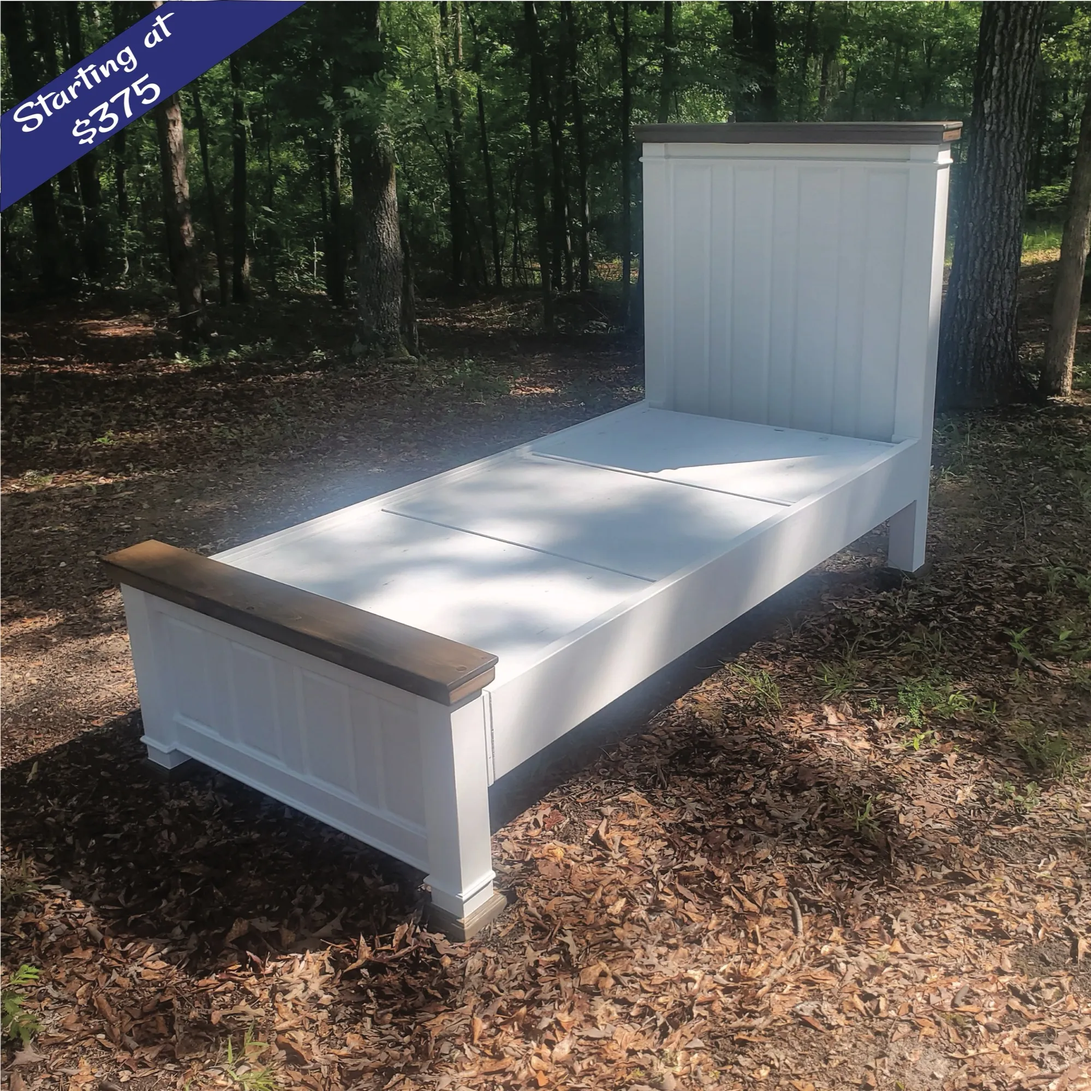
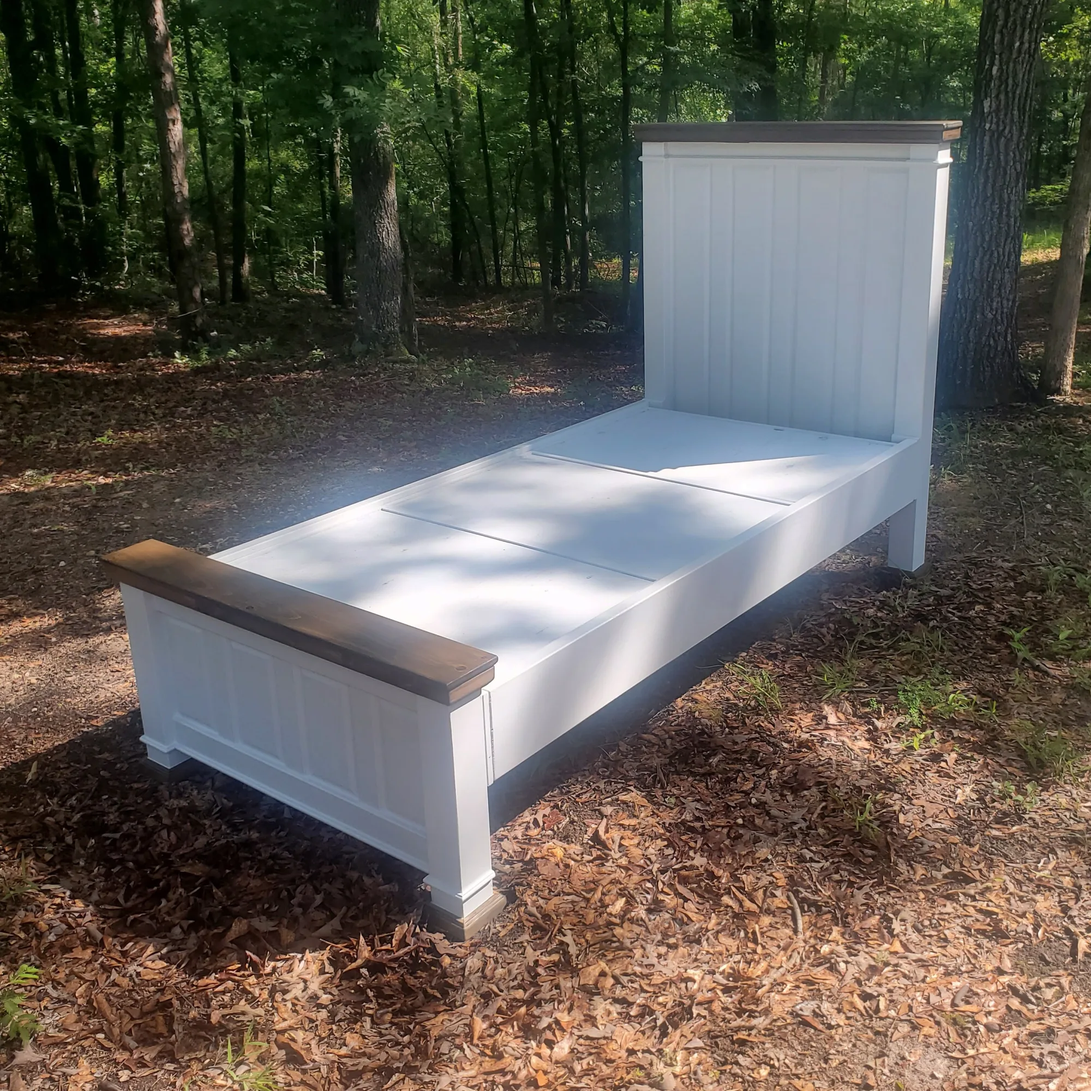
swtiched the Franklin hero and the bed pic, added the full text to Franklin card

diff --git a/index.html b/index.html
@@ -77,14 +77,14 @@
 
       <article class="style-card" data-style="franklin" tabindex="0" role="button" aria-label="View Franklin Collection">
         <div class="style-card__bg">
-          <img class="style-card__img style-card__img--a active" src="images/Franklin/1. 7-Drawer Dresser.webp" alt="">
+          <img class="style-card__img style-card__img--a active" src="images/Franklin/0. 7-Drawer Dresser-no-price.webp" alt="">
           <img class="style-card__img style-card__img--b" src="images/Franklin/2. 5-Drawer Chest of Drawers.webp" alt="">
         </div>
         <div class="style-card__veil"></div>
         <div class="style-card__body">
           <span class="style-card__num">01</span>
           <h3 class="style-card__name">Franklin</h3>
-          <p class="style-card__desc">Solid wood construction with raised panels</p>
+          <p class="style-card__desc">Solid wood construction with raised panels, subtle edge details and matching wood grain top and floor trim</p>
           <span class="style-card__cta">View Collection <span aria-hidden="true">→</span></span>
         </div>
       </article>

diff --git a/script.js b/script.js
@@ -114,7 +114,7 @@ const styleImages = {
 /* Add new photos to styleImages above for the lightbox; only list here if you want them in the slideshow too */
 const slideshowImages = {
   franklin: [
-    'images/Franklin/1. 7-Drawer Dresser.webp',
+    'images/Franklin/0. 7-Drawer Dresser-no-price.webp',
     'images/Franklin/2. 5-Drawer Chest of Drawers.webp',
     'images/Franklin/3. Dovetail Drawers.webp',
     'images/Franklin/4. 3-Drawer Chest of Drawers.webp',
